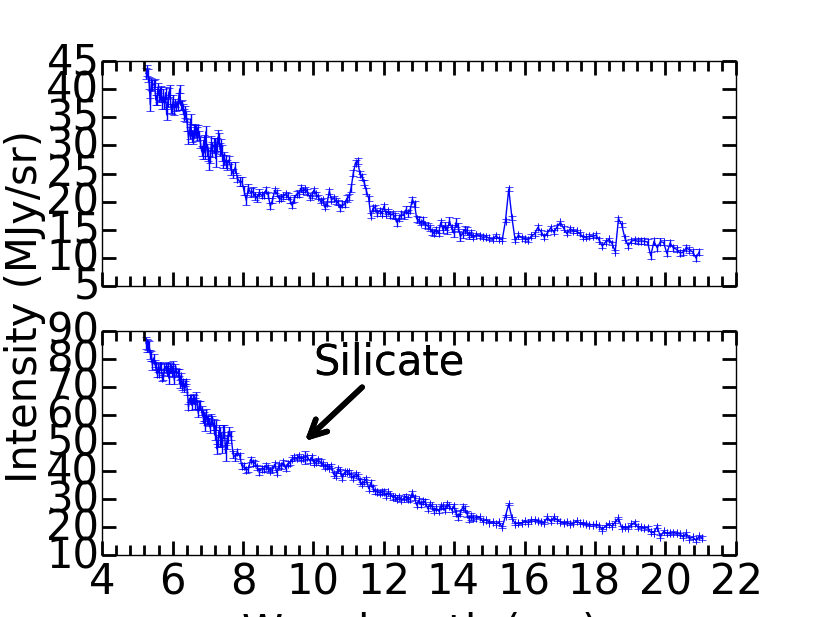
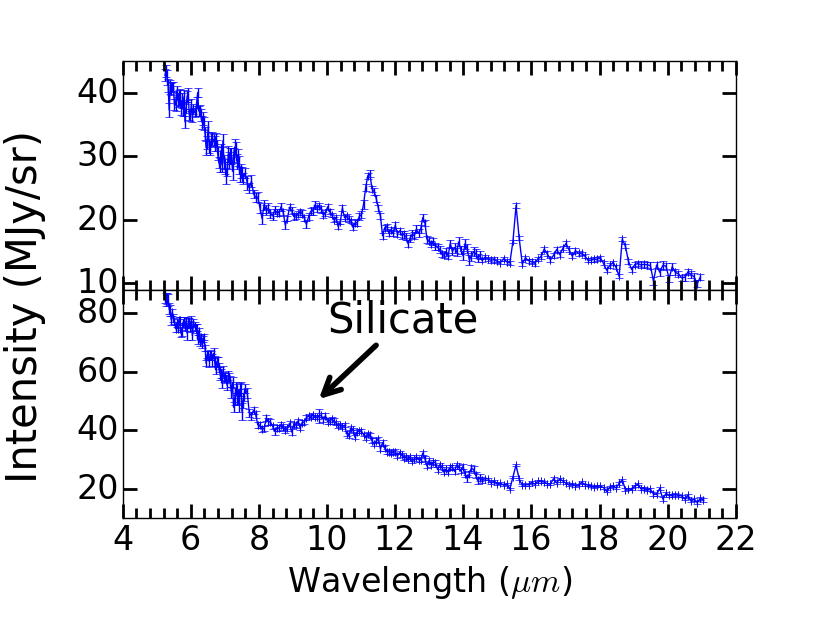
fiddling with tick labels

diff --git a/pb_nucleus/silicate.py b/pb_nucleus/silicate.py
@@ -6,7 +6,7 @@ import numpy as np                     # Allows Numpy functions to be called dir
 import matplotlib.pyplot as plt         # Graphing routines
 import sys
 import scipy 
-from matplotlib.ticker import AutoMinorLocator
+from matplotlib.ticker import AutoMinorLocator, MultipleLocator
 import matplotlib
 
 
@@ -55,8 +55,8 @@ def plotting(X,Y,Yerr,panel,axes):
     # Plot spectra into panels.
 
     axes[panel].errorbar(X,Y,Yerr,0,'-')
-    axes[panel].tick_params(axis='both', which='major', labelsize=30)
-    axes[panel].tick_params(axis='both', which='minor', labelsize=30)
+    axes[panel].tick_params(axis='both', which='major', labelsize=24)
+    axes[panel].tick_params(axis='both', which='minor', labelsize=24)
 
 def doplot():
     matplotlib.rcdefaults()
@@ -68,6 +68,8 @@ def doplot():
         ax.tick_params(which='major', length=10)
         ax.tick_params(which='minor', length=7, color='k')
         ax.tick_params(which='both',labelsize=24)
+        ax.tick_params(axis='both', which='major', labelsize=24)
+        ax.tick_params(axis='both', which='minor', labelsize=24)
     fig.text(0.03, 0.5, 'Intensity (MJy/sr)', ha='center', va='center', rotation='vertical',fontsize=30)
     
     # Reading .tbl files got from CUBISM 
@@ -79,7 +81,9 @@ def doplot():
     plotting(Wavelength,Flux,FluxUnc,1,axes)
     axes[1].set_xlabel("Wavelength ($\mu m$)",fontsize=24)
     axes[1].annotate('Silicate', xy=(9.7, 50),  xycoords='data',xytext=None,size=30, textcoords='offset points',arrowprops=dict(arrowstyle="->", linewidth = 4))
-    
+    axes[1].set_ylim(10,88)
+    axes[1].yaxis.set_major_locator(MultipleLocator(20))    
+
 #    sl2 = np.loadtxt("m31nuc_sl2_nucUP.tbl", skiprows = 15 )
 #    sl1 = np.loadtxt("m31nuc_sl1_nucUP.tbl", skiprows = 15 )
 #    ll2 = np.loadtxt("m31nuc_ll2_nucUP.tbl", skiprows = 15 )
@@ -87,7 +91,9 @@ def doplot():
     Wavelength,Flux,FluxUnc = np.loadtxt('m31nuc_nucUP_correct.dat',usecols=(0,1,2),unpack=True)
     
     plotting(Wavelength,Flux,FluxUnc,0,axes)
-    
+    axes[0].set_ylim(9,45)
+    axes[0].yaxis.set_major_locator(MultipleLocator(10))
+
     fig.subplots_adjust(left=0.15, bottom=0.16, hspace=0.0)
     plt.show()
     return
